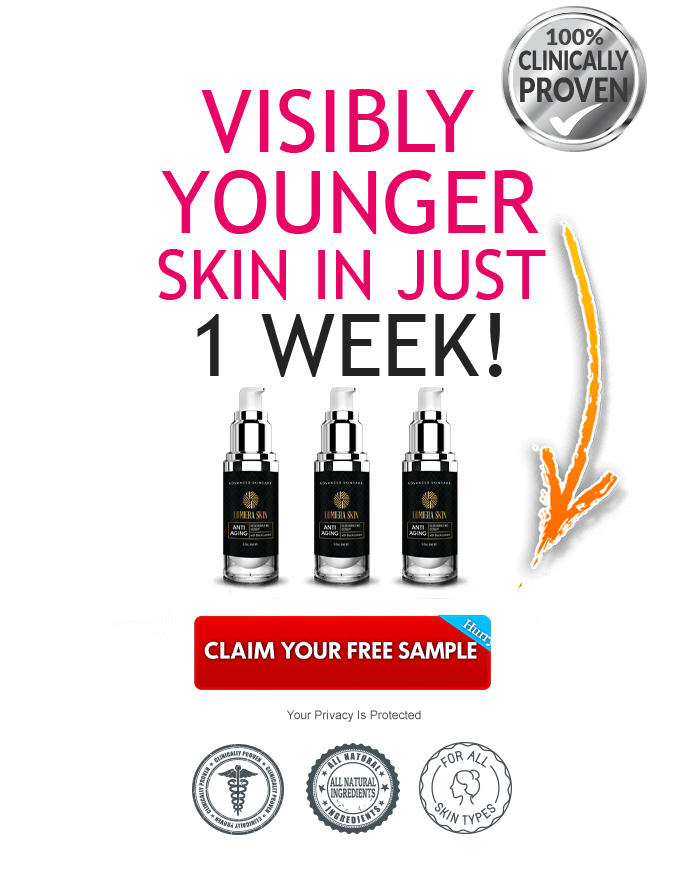
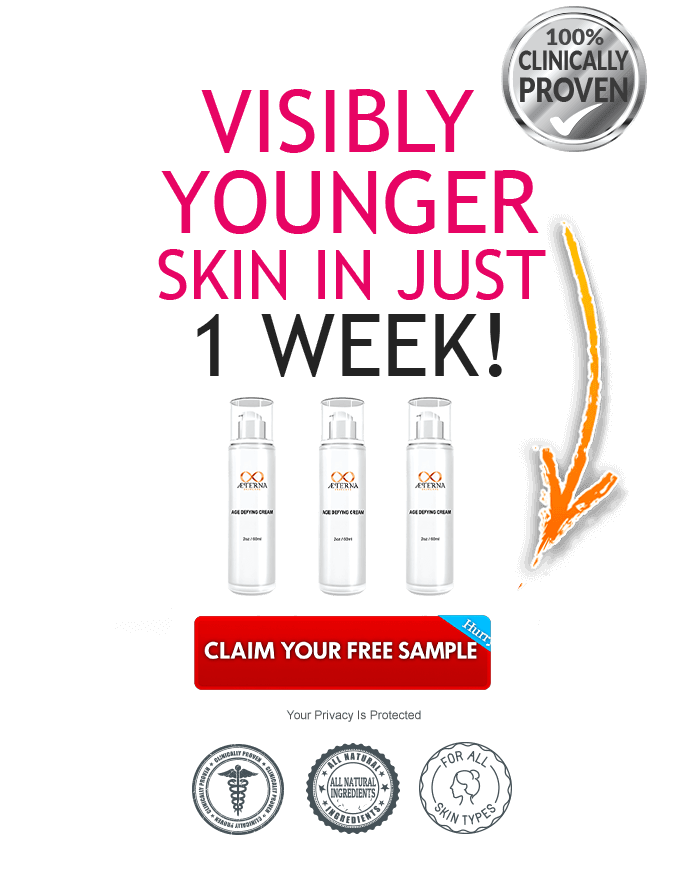
upsells 4 no bill

Changed region(s): [[0.3088, 0.434, 0.5559, 0.682], [0.5868, 0.434, 0.6794, 0.682]]

diff --git a/app/desktop/css/thankyou.css b/app/desktop/css/thankyou.css
@@ -177,7 +177,7 @@ CSS FOR THANKYOU PAGE
 .thank-dtl-box.cart-col-1 {padding: 0 0 0 30px;}
 .thank-dtl-box .cart-col-4 {padding: 0 30px 0 0;}
 .thank-dtl-box .cart-col-3 .unit-price {color: #393733;}
-.thank-dtl-box .cart-prd-1{left: 35px; width: 35px;}
+.thank-dtl-box .cart-prd-1{left: 8px; width: 79px;}
 .thank-dtl-box .cart-prd-row {
 	padding: 35px 0;
 	}

diff --git a/page-terms.php b/page-terms.php
@@ -54,7 +54,7 @@ By accessing, registering, or placing an order from our Website, you are agreein
 <p class="e"><strong>2. WEBSITE ORDER TERMS</strong></p>
 <p>By agreeing to these Terms of Service, you represent that you are at least the age of majority in your state or province of residence, or that you are the age of majority in your state or province of residence and you have given us your consent to allow any of your minor dependents to use this site. You may not use our products for any illegal or unauthorized purpose nor may you, in the use of the Service, violate any laws in your jurisdiction (including but not limited to copyright laws). You must not transmit any worms or viruses or any code of a destructive nature. A breach or violation of any of the Terms will result in an immediate termination of your Services.<br><br>
 When you place an order from our Website, you will be presented with the total amount of all relevant charges which will vary depending upon your order. For example, on all orders you will clearly see the product cost, the shipping and processing cost, any discounts, and, if applicable, the sales tax cost.<br><br>
-When you order a 7-Day Sample of Aeterna Skin Advanced Wrinkle Cream you will have 10 days to decide if the product is right for you. If you do nothing after 10 days you will be billed and shipped a 1-Month Supply of Aeterna Skin Advanced Wrinkle Cream at the regular price of $88.97 - this will continue on a monthly basis until you cancel your subscription.<br><br>
+When you order a 7-Day Sample of Aeterna Skincare Age Defying Cream you will have 10 days to decide if the product is right for you. If you do nothing after 10 days you will be billed and shipped a 1-Month Supply of Aeterna Skincare Age Defying Cream at the regular price of $88.97 - this will continue on a monthly basis until you cancel your subscription.<br><br>
 If you order a 7-Day Sample of Aeterna Skin Hyaluronic Acid + Collagen Anti Age Serum you will have 13 days to decide if the product is right for you. If you do nothing after 13 days you will be billed and shipped 1-Month Supply of Aeterna Skin Hyaluronic Acid + Collagen Anti Age Serum at the regular price of $84.94 - this will continue on a monthly basis until you cancel your subscription.<br><br>
 If you need to cancel your subscription for whatever reason please contact our customer service department by phone (888-918-5943 ) or email (support@aeternaskin.com).</p>
 

diff --git a/thankyou.php b/thankyou.php
@@ -38,10 +38,10 @@ foreach ($orders_details as $key => $value) {
 }
 
 $productsDesc = [
-    '969' => array('Aeterna Skincare Advanced Wrinkle Cream', 'Sample Pack', 'image.png', 1),
-    '971' => array('Aeterna Skincare Hyaluronic Acid + Collagen Anti Age Serum', 'Sample Pack', 'image.png', 2),
-    '973' => array('Aeterna Skincare Advanced Eye Cream', '1 Bottle Special', 'image.png', 3),
-    '974' => array('Aeterna Skincare Vitamin C Cleanser', '1 Bottle Special', 'image.png', 4),
+    '969' => array('Aeterna Skincare Age Defying Cream', 'Sample Pack', 'image.png', 1),
+    '971' => array('Aeterna Skincare Hyaluronic Acid + Collagen Anti Age Serum', 'Sample Pack', 'up1-image.png', 2),
+    '973' => array('Aeterna Skincare Advanced Eye Cream', '1 Bottle Special', 'up2-image.png', 3),
+    '974' => array('Aeterna Skincare Vitamin C Cleanser', '1 Bottle Special', 'up3-image.png', 4),
     '924' => array('Rush Processing', '', 'up3-prod.png', 4),
     // '776' => array('FitnessXr Free Trial', '', 'up4-prod.png'),
     // '774' => array('USADC Free Trial', '', 'up4-prod.png'),
